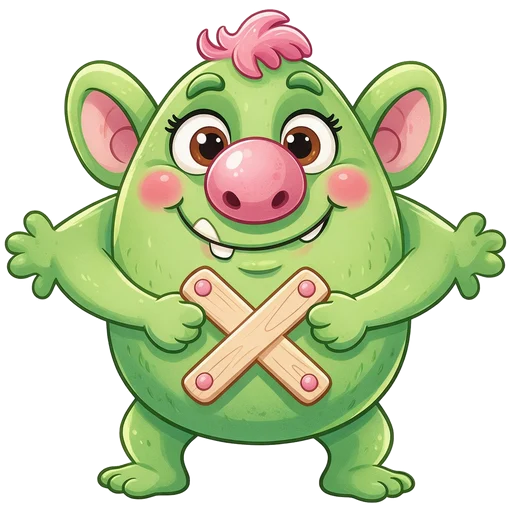
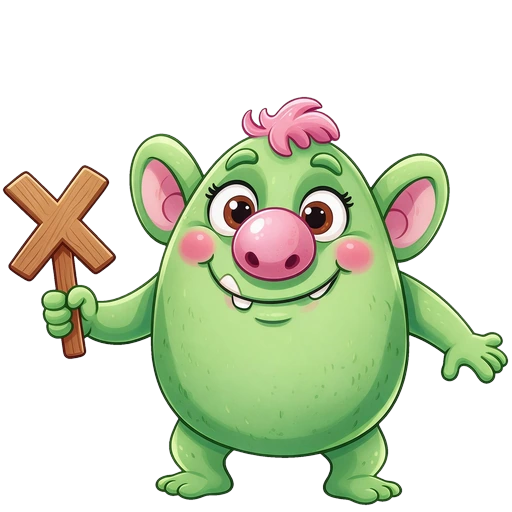
Tabellresan: ny trollbild utan händer på armbågarna
Claude-Session: https://claude.ai/code/session_01QfxDVtA9rcSFTKaxdmF121

diff --git a/appar/sjuan/sw.js b/appar/sjuan/sw.js
@@ -1,6 +1,6 @@
 // Gör att spelet fungerar utan täckning när det väl laddats en gång.
 // Höj versionen vid varje ändring så att telefonerna hämtar det nya.
-const C = "tabellresan-v18";
+const C = "tabellresan-v19";
 const FILES = [
 "./",
 "index.html",
